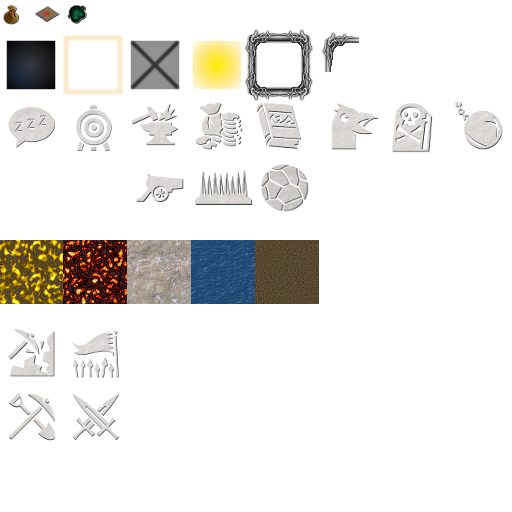
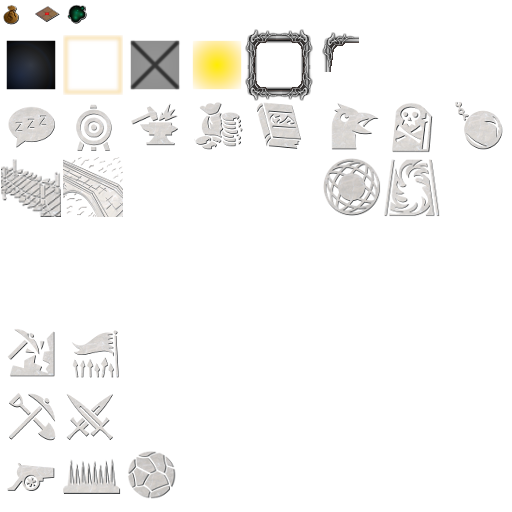
Cleaned up the gui resources a bit and added the missing buttons.
- Removed redundant tiles types button graphics.
- Reordered a bit the button icons graphics.
- Added the temple, portal, and bridges icons.
- Added resource links to the summon kobold and call to war spells in the imageset.

Part of #419
Part of #192
Part of #191
Part of #16

diff --git a/source/modes/GameMode.cpp b/source/modes/GameMode.cpp
@@ -95,9 +95,14 @@ std::string getImageColoursStringFromColourValue(const Ogre::ColourValue& color)
 void GameMode::activate()
 {
     // Loads the corresponding Gui sheet.
-    Gui::getSingleton().loadGuiSheet(Gui::inGameMenu);
+    Gui& gui = Gui::getSingleton();
+    gui.loadGuiSheet(Gui::inGameMenu);
 
-    Gui::getSingleton().getGuiSheet(Gui::inGameMenu)->getChild(Gui::EXIT_CONFIRMATION_POPUP)->hide();
+    // Hides the exit pop-up and certain buttons only used by the editor.
+    CEGUI::Window* guiSheet = gui.getGuiSheet(Gui::inGameMenu);
+    guiSheet->getChild(Gui::EXIT_CONFIRMATION_POPUP)->hide();
+    guiSheet->getChild(Gui::BUTTON_TEMPLE)->hide();
+    guiSheet->getChild(Gui::BUTTON_PORTAL)->hide();
 
     MiniMap* minimap = ODFrameListener::getSingleton().getMiniMap();
     minimap->attachMiniMap(Gui::guiSheet::inGameMenu);
@@ -110,7 +115,7 @@ void GameMode::activate()
     // Show the player seat color on the horizontal pipe - AARRGGBB format
     // ex: "tl:FF0000FF tr:FF0000FF bl:FF0000FF br:FF0000FF"
     std::string colorStr = getImageColoursStringFromColourValue(mGameMap->getLocalPlayer()->getSeat()->getColorValue());
-    Gui::getSingleton().getGuiSheet(Gui::inGameMenu)->getChild("HorizontalPipe")->setProperty("ImageColours", colorStr);
+    guiSheet->getChild("HorizontalPipe")->setProperty("ImageColours", colorStr);
 
     if(mGameMap->getTurnNumber() != -1)
     {

diff --git a/source/render/Gui.cpp b/source/render/Gui.cpp
@@ -996,6 +996,8 @@ const std::string Gui::BUTTON_LIBRARY = "MainTabControl/Rooms/LibraryButton";
 const std::string Gui::BUTTON_HATCHERY = "MainTabControl/Rooms/HatcheryButton";
 const std::string Gui::BUTTON_TREASURY = "MainTabControl/Rooms/TreasuryButton";
 const std::string Gui::BUTTON_CRYPT = "MainTabControl/Rooms/CryptButton";
+const std::string Gui::BUTTON_TEMPLE = "MainTabControl/Rooms/TempleButton";
+const std::string Gui::BUTTON_PORTAL = "MainTabControl/Rooms/PortalButton";
 const std::string Gui::BUTTON_DESTROY_ROOM = "MainTabControl/Rooms/DestroyRoomButton";
 const std::string Gui::TAB_TRAPS = "MainTabControl/Traps";
 const std::string Gui::BUTTON_TRAP_CANNON = "MainTabControl/Traps/CannonButton";

diff --git a/source/render/Gui.h b/source/render/Gui.h
@@ -88,6 +88,8 @@ public:
     static const std::string BUTTON_HATCHERY;
     static const std::string BUTTON_TREASURY;
     static const std::string BUTTON_CRYPT;
+    static const std::string BUTTON_TEMPLE;
+    static const std::string BUTTON_PORTAL;
     static const std::string BUTTON_DESTROY_ROOM;
     static const std::string TAB_TRAPS;
     static const std::string BUTTON_TRAP_CANNON;
